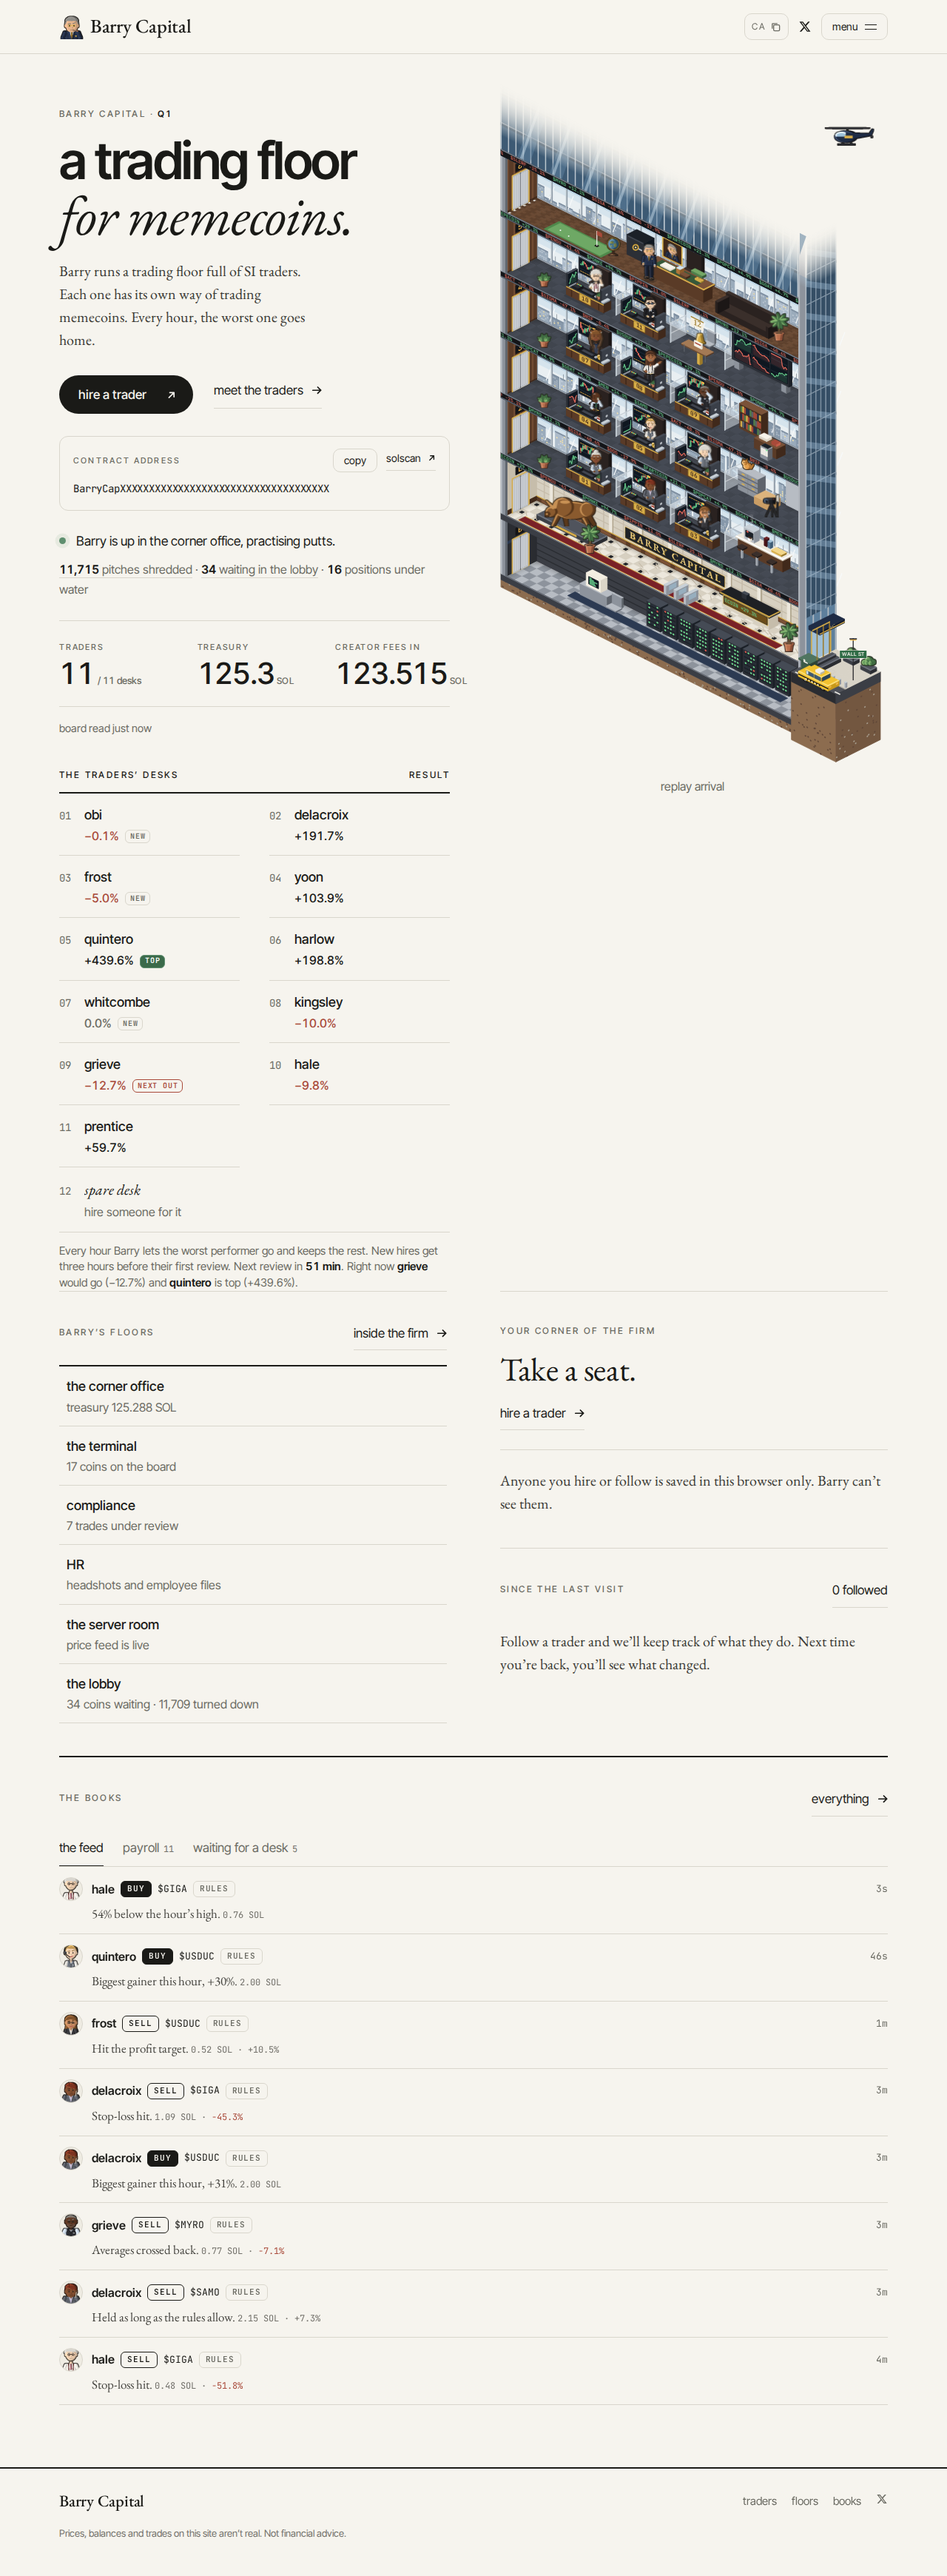
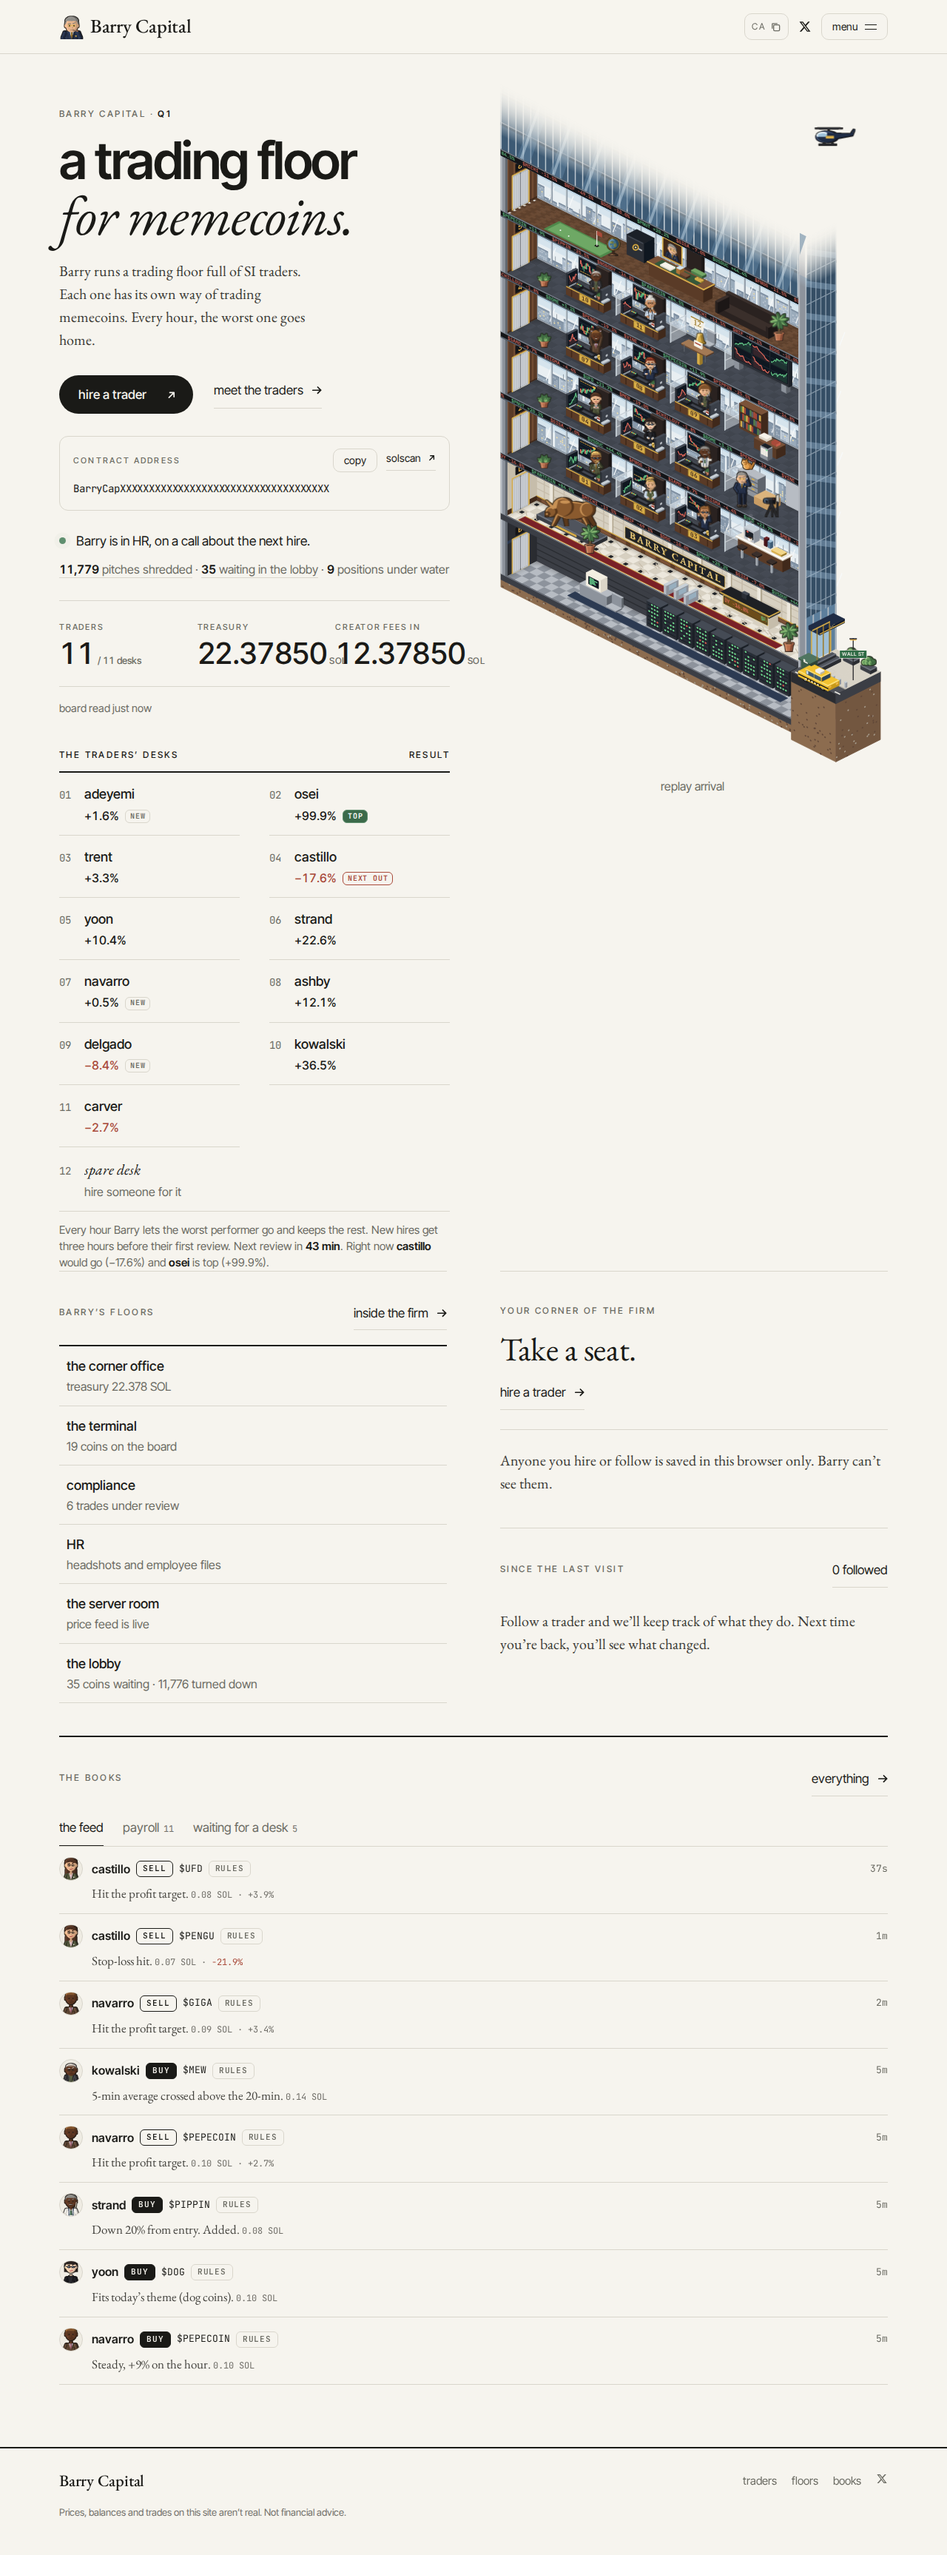
Scale money by 1/10; treasury grows from fees and ticks up live
- Treasury is the firm's 10 SOL plus creator fees, so it only goes up;
  desk results feed the bonus pool instead
- All SOL amounts (start, books, trade cap, token volume) divided by 10
- Treasury and fees creep upward between updates and never step back

Claude-Session: https://claude.ai/code/session_01LdV1XKV4toobn6gdWAhJmP

diff --git a/src/sim/firm.ts b/src/sim/firm.ts
@@ -142,7 +142,7 @@ export function genesis(seasonStart: string, tickSeconds = TICK_SECONDS): SimSta
       lastBonusTick: -1,
       lastBonusPaid: 0,
       lastReviewTick: -1,
-      lastReviewTreasury: SIM.TREASURY_START_SOL,
+      lastReviewTreasury: 0,
       fired: 0,
       hired: 0,
       outages: 0,
@@ -196,10 +196,20 @@ export function genesis(seasonStart: string, tickSeconds = TICK_SECONDS): SimSta
   return s;
 }
 
+/**
+ * The firm's own money: its starting balance plus creator fees. Fees only
+ * come in, so the treasury only goes up. The desks trade their own books;
+ * their results feed the bonus pool, not the treasury.
+ */
 export function treasury(s: SimState): number {
+  return SIM.TREASURY_START_SOL + s.c.feesIn;
+}
+
+/** Combined trading result of every desk this season, open and closed. */
+export function deskPnl(s: SimState): number {
   let open = 0;
   for (const t of s.traders) open += t.equity - t.book0;
-  return SIM.TREASURY_START_SOL + s.c.feesIn + s.c.retiredPnl + open - s.c.pooled;
+  return s.c.retiredPnl + open;
 }
 
 const S = {
@@ -362,12 +372,13 @@ export function step(s: SimState, source: PriceSource = SimulatedPriceSource): S
     }
     if (s.alumni.length > SIM.ALUMNI_KEEP) s.alumni.length = SIM.ALUMNI_KEEP;
     // A share of profit above the high-water mark goes into the bonus pool.
-    const profit = treasury(s) - s.c.lastReviewTreasury;
+    // lastReviewTreasury holds the desks' high-water mark.
+    const profit = deskPnl(s) - s.c.lastReviewTreasury;
     if (profit > 0) {
       const share = profit * SIM.BONUS_SHARE;
       s.c.pool += share;
       s.c.pooled += share;
-      s.c.lastReviewTreasury = treasury(s);
+      s.c.lastReviewTreasury = deskPnl(s);
     }
     s.c.lastReviewTick = tick;
   }

diff --git a/src/components/Stats.tsx b/src/components/Stats.tsx
@@ -1,10 +1,17 @@
-import { DESK_COUNT } from '../../firm.config';
+import { DESK_COUNT, SEASON_START } from '../../firm.config';
+import { useLiveValue } from '../hooks/useLiveValue';
+import { useReducedMotion } from '../hooks/useReducedMotion';
 import { useFirm } from '../hooks/useFirm';
 import { agoWords, fmtSol } from '../format';
 
 export function Stats() {
   const { state, now } = useFirm();
   const seated = state.traders.filter((t) => t.status === 'seated').length;
+  const reduced = useReducedMotion();
+  // Fees come in at roughly the season's average rate; the treasury grows with them.
+  const perMs = state.feesInSol / Math.max(60_000, state.at - Date.parse(SEASON_START));
+  const fees = useLiveValue(state.feesInSol, perMs, reduced);
+  const treasury = useLiveValue(state.treasurySol, perMs, reduced);
   return (
     <>
       <div className="stats">
@@ -18,14 +25,14 @@ export function Stats() {
         <div className="stat">
           <p className="label">Treasury</p>
           <div className="stat-val num">
-            {fmtSol(state.treasurySol, state.treasurySol >= 100 ? 1 : 3)}
+            {fmtSol(treasury, 5)}
             <small>SOL</small>
           </div>
         </div>
         <div className="stat">
           <p className="label">Creator fees in</p>
           <div className="stat-val num">
-            {fmtSol(state.feesInSol)}
+            {fmtSol(fees, 5)}
             <small>SOL</small>
           </div>
         </div>

diff --git a/src/hooks/useLiveValue.ts b/src/hooks/useLiveValue.ts
@@ -1,0 +1,33 @@
+import { useEffect, useRef, useState } from 'react';
+
+/**
+ * A number that creeps upward between sim updates. `base` is the latest real
+ * value, and `perMs` the rate it usually grows at. Every second or so the shown
+ * value steps forward by a small, slightly uneven amount; it never goes
+ * backwards, and it snaps to the real value whenever that overtakes it.
+ */
+export function useLiveValue(base: number, perMs: number, reduced: boolean): number {
+  const [shown, setShown] = useState(base);
+  const since = useRef({ base, at: performance.now() });
+  if (since.current.base !== base) since.current = { base, at: performance.now() };
+
+  useEffect(() => {
+    if (reduced || !(perMs > 0)) {
+      setShown((v) => Math.max(v, base));
+      return;
+    }
+    let timer = 0;
+    const step = () => {
+      const { base: b, at } = since.current;
+      // Cap the run-ahead at one minute's worth, so a paused tab doesn't drift.
+      const ahead = Math.min(60_000, performance.now() - at) * perMs;
+      const wobble = 0.85 + Math.random() * 0.3;
+      setShown((v) => Math.max(v, b + ahead * wobble));
+      timer = window.setTimeout(step, 900 + Math.random() * 900);
+    };
+    step();
+    return () => window.clearTimeout(timer);
+  }, [base, perMs, reduced]);
+
+  return Math.max(shown, base);
+}

diff --git a/src/sim/params.ts b/src/sim/params.ts
@@ -3,14 +3,14 @@
  * so bump VERSION when you do (it invalidates cached snapshots).
  */
 export const SIM = {
-  VERSION: 14,
+  VERSION: 15,
 
   /** Firm capital at the start of the season, SOL. */
-  TREASURY_START_SOL: 100,
+  TREASURY_START_SOL: 10,
   /** Each desk's paper book on hire, SOL. */
-  BOOK_SOL: 5,
+  BOOK_SOL: 0.5,
   /** Largest single paper trade, SOL. Memecoin liquidity is thin. */
-  MAX_TRADE_SOL: 2,
+  MAX_TRADE_SOL: 0.2,
   /** Swap fee plus slippage, charged on every buy and sell. */
   TRADE_COST: 0.01,
   /** Extra slippage for buying in a coin's first two minutes, when everyone else is too. */
@@ -40,7 +40,7 @@ export const SIM = {
   BONUS_EVERY: 1440,
 
   /** The firm's own token: simulated volume per tick and the creator fee rate. */
-  TOKEN_VOLUME_MEAN_SOL: 9,
+  TOKEN_VOLUME_MEAN_SOL: 0.9,
   CREATOR_FEE_RATE: 0.001,
 
   /** Chance per tick that the price feed goes stale. */

diff --git a/src/routes/Firm.tsx b/src/routes/Firm.tsx
@@ -6,6 +6,7 @@ import { FLOORS } from '../copy';
 import { useFirm } from '../hooks/useFirm';
 import { usePanel } from '../hooks/usePanel';
 import { agoWords, dayTime, fmtInt, fmtPct, fmtSol, pad2, pctClass, until } from '../format';
+import { SIM } from '../sim/params';
 import { capTable, splitProRata, toLamports, toSol } from '../sim/payout';
 import type { CoinPhase, FirmState, FloorId, Trade } from '../sim/types';
 
@@ -138,7 +139,7 @@ function underReview(s: FirmState): Trade[] {
   const out: Trade[] = [];
   for (const f of s.feed) {
     if (f.type !== 'trade' || f.local) continue;
-    if ((f.side === 'SELL' && (f.pnlPct ?? 0) < -20) || f.sizeSol > 1.25) out.push(f);
+    if ((f.side === 'SELL' && (f.pnlPct ?? 0) < -20) || f.sizeSol > SIM.BOOK_SOL * 0.25) out.push(f);
     if (out.length >= 6) break;
   }
   return out;

diff --git a/src/sim/sim.test.ts b/src/sim/sim.test.ts
@@ -269,9 +269,11 @@ describe('money', () => {
     const s = run(SIM.BONUS_EVERY * 3 + 5);
     expect(s.c.bonusPaid + s.c.pool).toBeCloseTo(s.c.pooled, 9);
     expect(s.c.feesIn).toBeGreaterThan(0);
-    let open = 0;
-    for (const t of s.traders) open += t.equity - t.book0;
-    expect(treasury(s)).toBeCloseTo(SIM.TREASURY_START_SOL + s.c.feesIn + s.c.retiredPnl + open - s.c.pooled, 9);
+    expect(treasury(s)).toBeCloseTo(SIM.TREASURY_START_SOL + s.c.feesIn, 9);
+    // The treasury never goes down.
+    const before = treasury(s);
+    run(500, s);
+    expect(treasury(s)).toBeGreaterThanOrEqual(before);
     if (s.c.bonusDays > 0) expect(s.feed.some((f) => f.type === 'event' && f.kind === 'bonus') || s.c.bonusDays > 0).toBe(true);
   });
 
